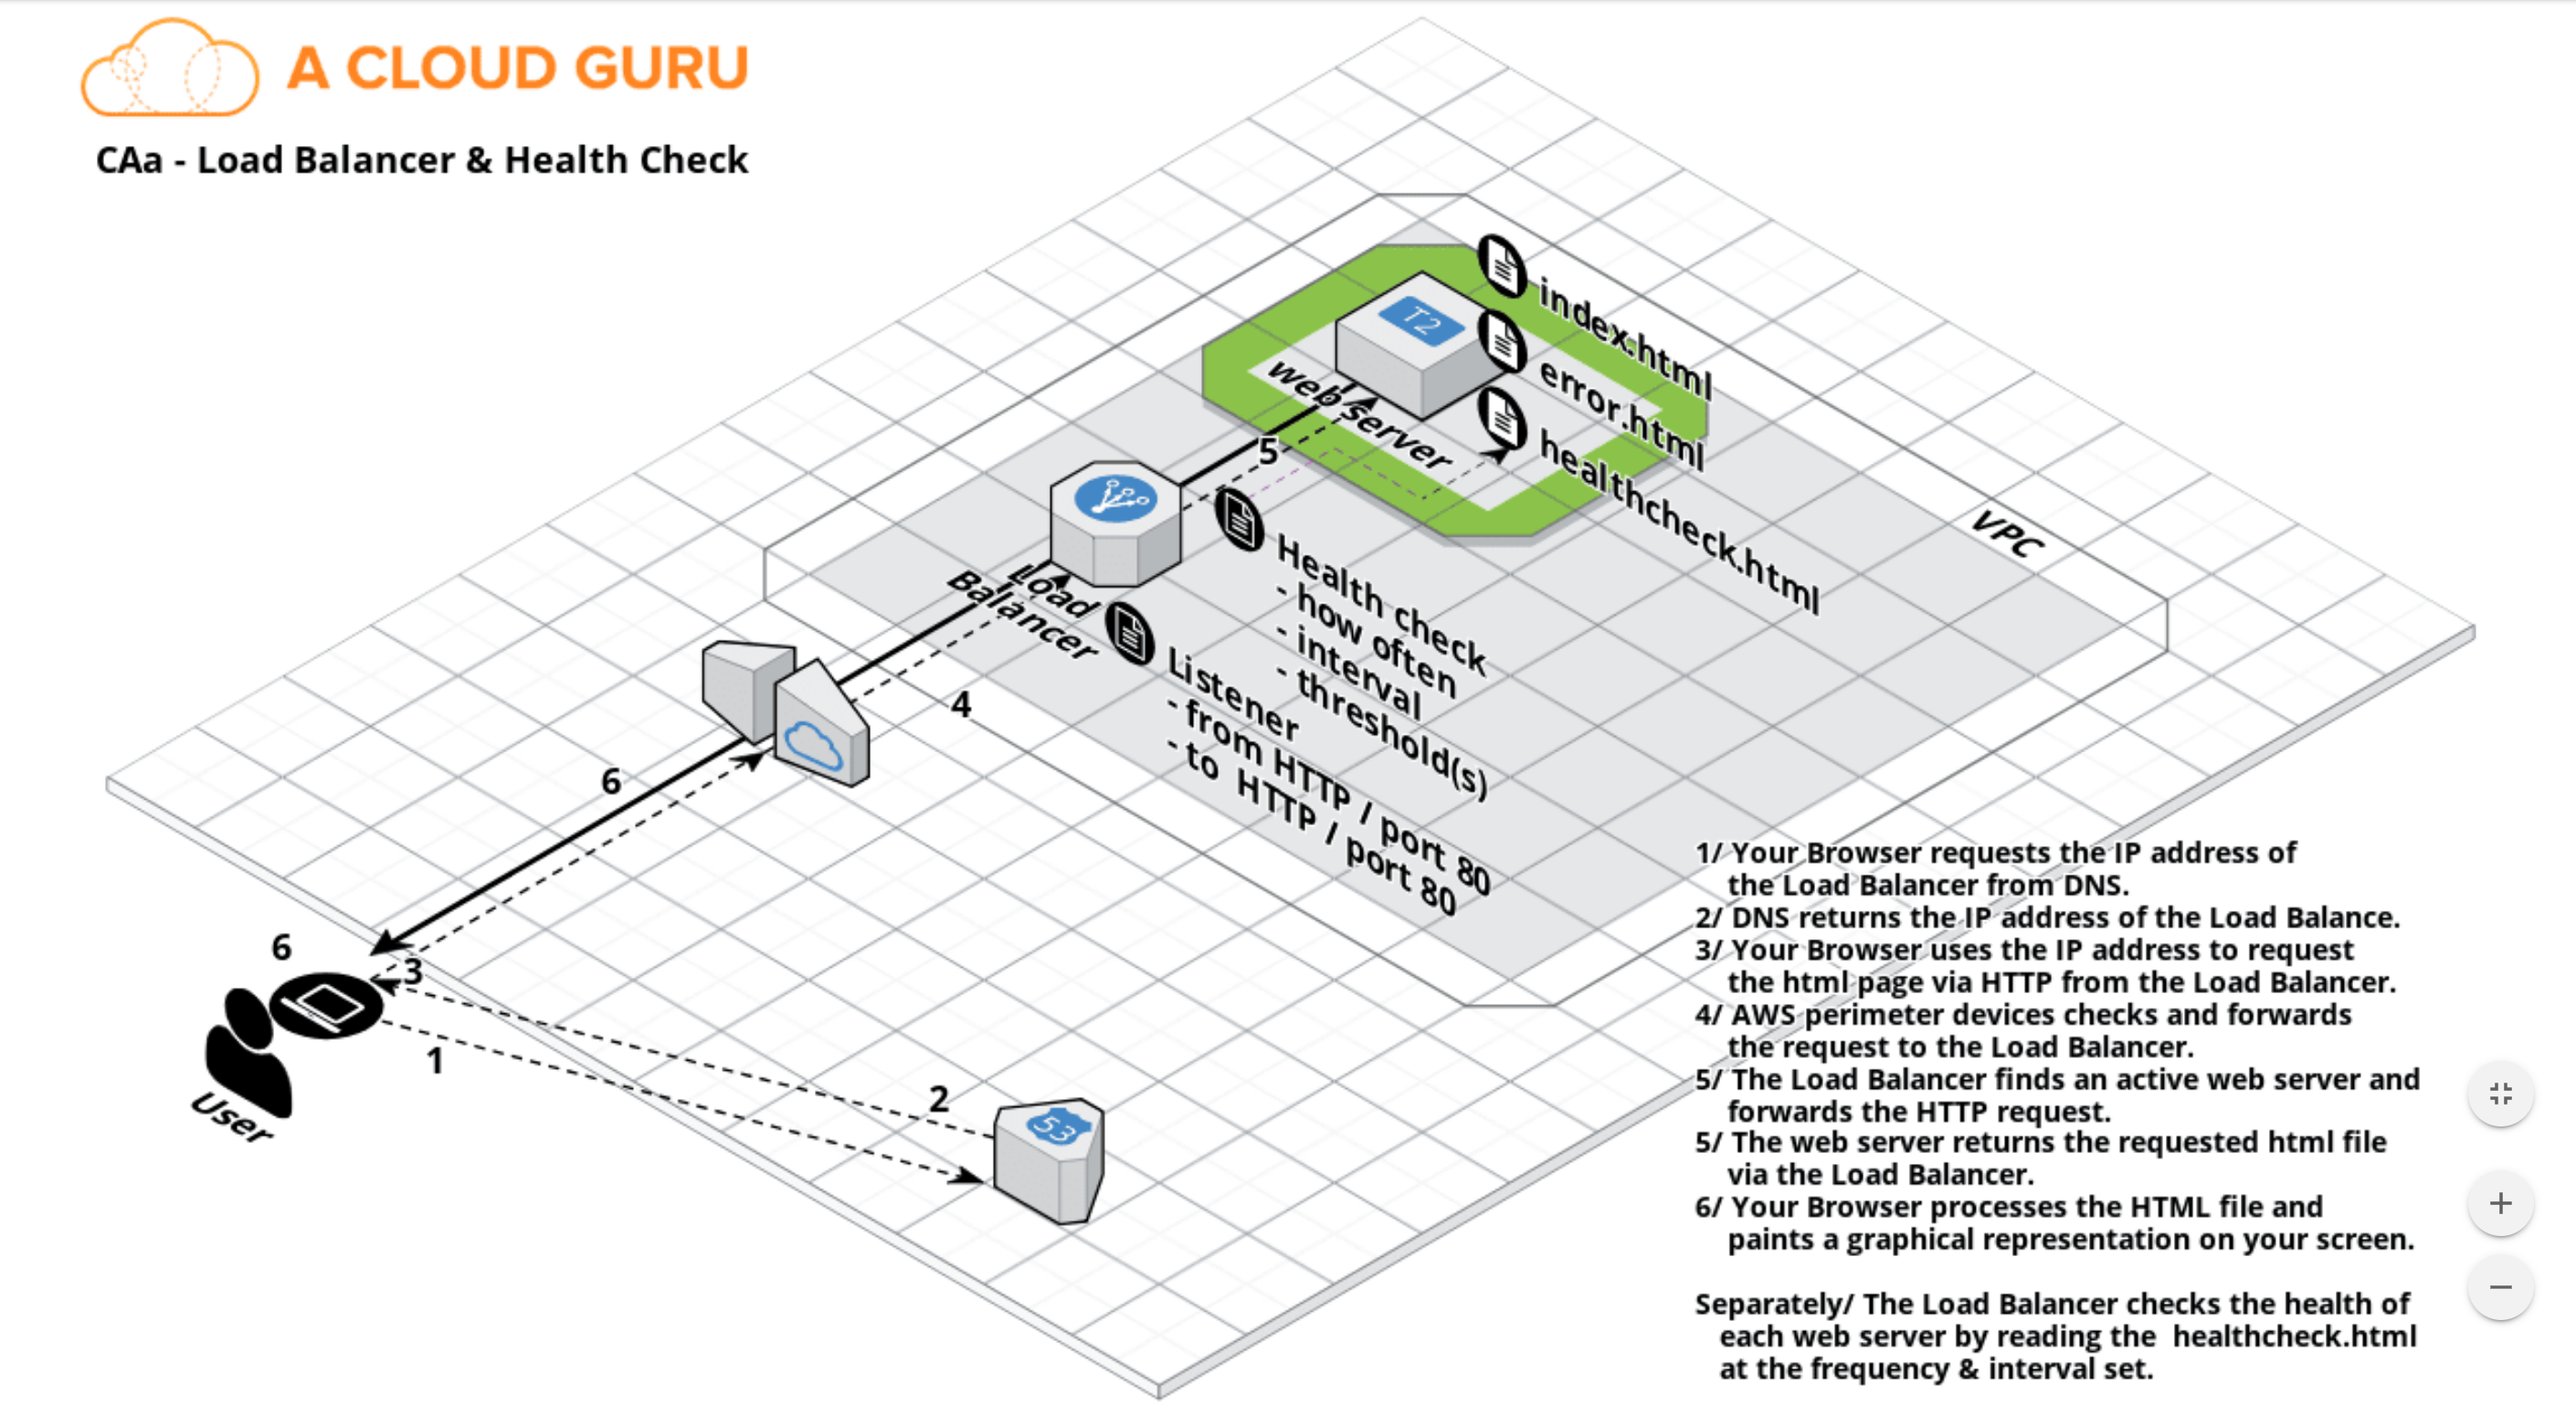
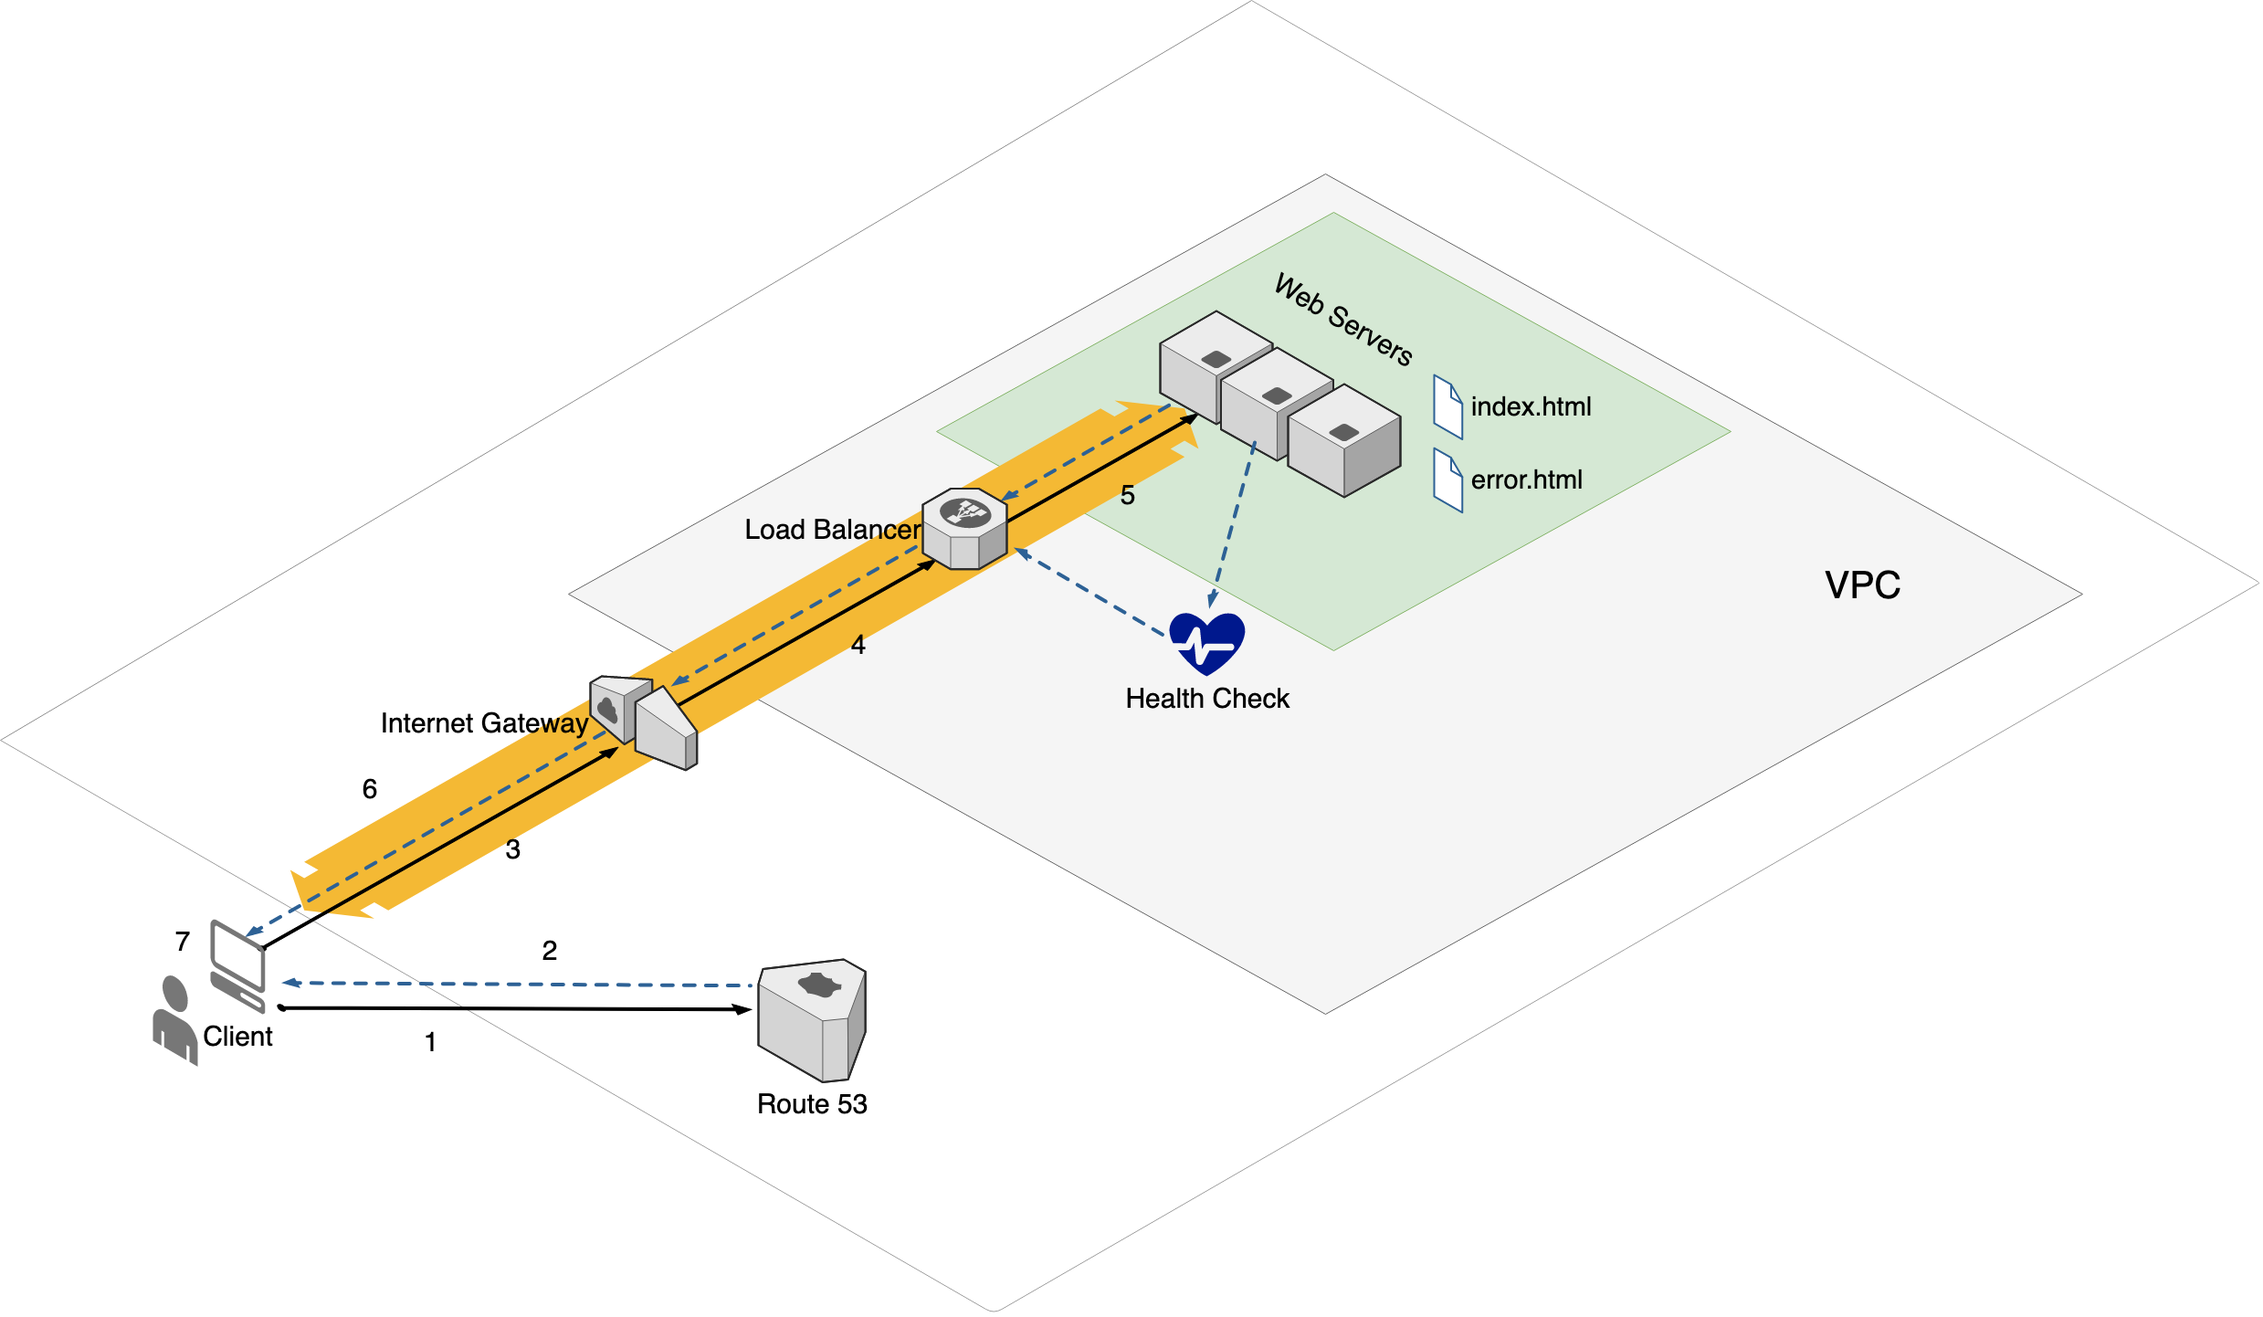
aws update diagram for lambda, load balancer

diff --git a/_cloud/amazon-aws/aws-elastic-load-balancer.md b/_cloud/amazon-aws/aws-elastic-load-balancer.md
@@ -37,14 +37,23 @@ If you need the IPv4 address of your end user, look for the `X-Forwarded-For` he
 * Load Balances have their own DNS name. You are never given an IP address.
 * Read the ELB FAQ for Classic Load Balancers.
 
-## 2. Load Balancers And Health Checks
-Reminder: Load Balancers are **not** free.
-
-Diagram: Load Balancer & Health Check Architecture
+## 2. Load Balancer and Health Check
+The architecture of Load Balancer and Health Check.
 ![image](/assets/images/cloud/4110/8-2-load-balancer-architecture.png)
+The flow of the http request:  
+1) Client(Web browser) requests the IP address of the Load Balancer from DNS.  
+2) DNS returns the IP address of the Load Balancer.  
+3) Client uses the IP address to request the web page.   
+4) Internet Gateway checks and forwards the request to the Load Balancer.  
+5) The Load Balancer finds an active web server and forwards the request.  
+6) The selected web server returns the requested html file.  
+7) Client receives and processes the html file.  
+
+The Load Balancer checks the health of each web server via the health check service.
 
 ## 3. Lab - Classic Load Balancer
 Create two instances with showing different web pages, then create a classic load balancer.
+* Reminder: Load Balancers are `not free`.
 
 ### 3.1 Create Two EC2 Instances
 Create first instance with the following bootstrap script, make it showing "This is WebServer 01" in the web page.

diff --git a/_cloud/amazon-aws/aws-amazon-lambda.md b/_cloud/amazon-aws/aws-amazon-lambda.md
@@ -170,8 +170,5 @@ Visit the link of index.html in web browser. We should see the page.
 Click on the button, the title will be changed. A call to the lambda function is made to get the name.
 ![image](/assets/images/cloud/4115/10-2-build-serverless-23.png)
 
-Architecture of Lambda.
-![image](/assets/images/cloud/4115/10-3-serverless-diagram.png)
-
 ## 3. References
 * [AWS Lambda](https://aws.amazon.com/lambda/)
